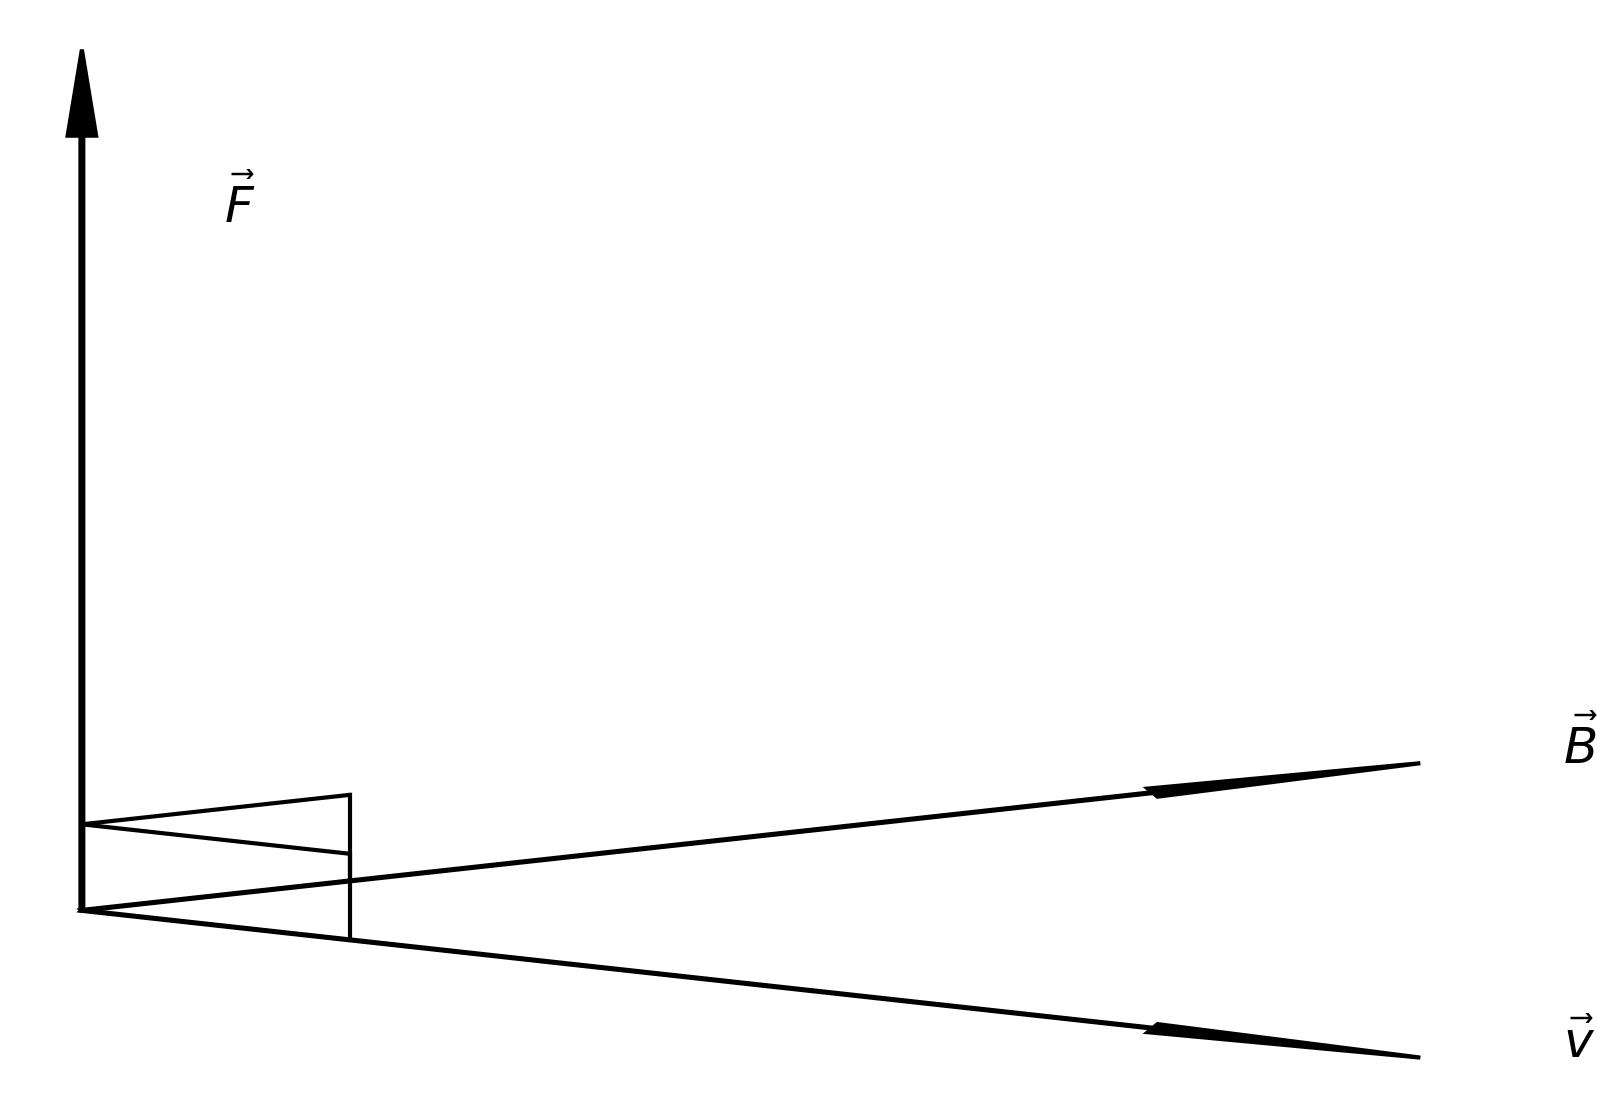
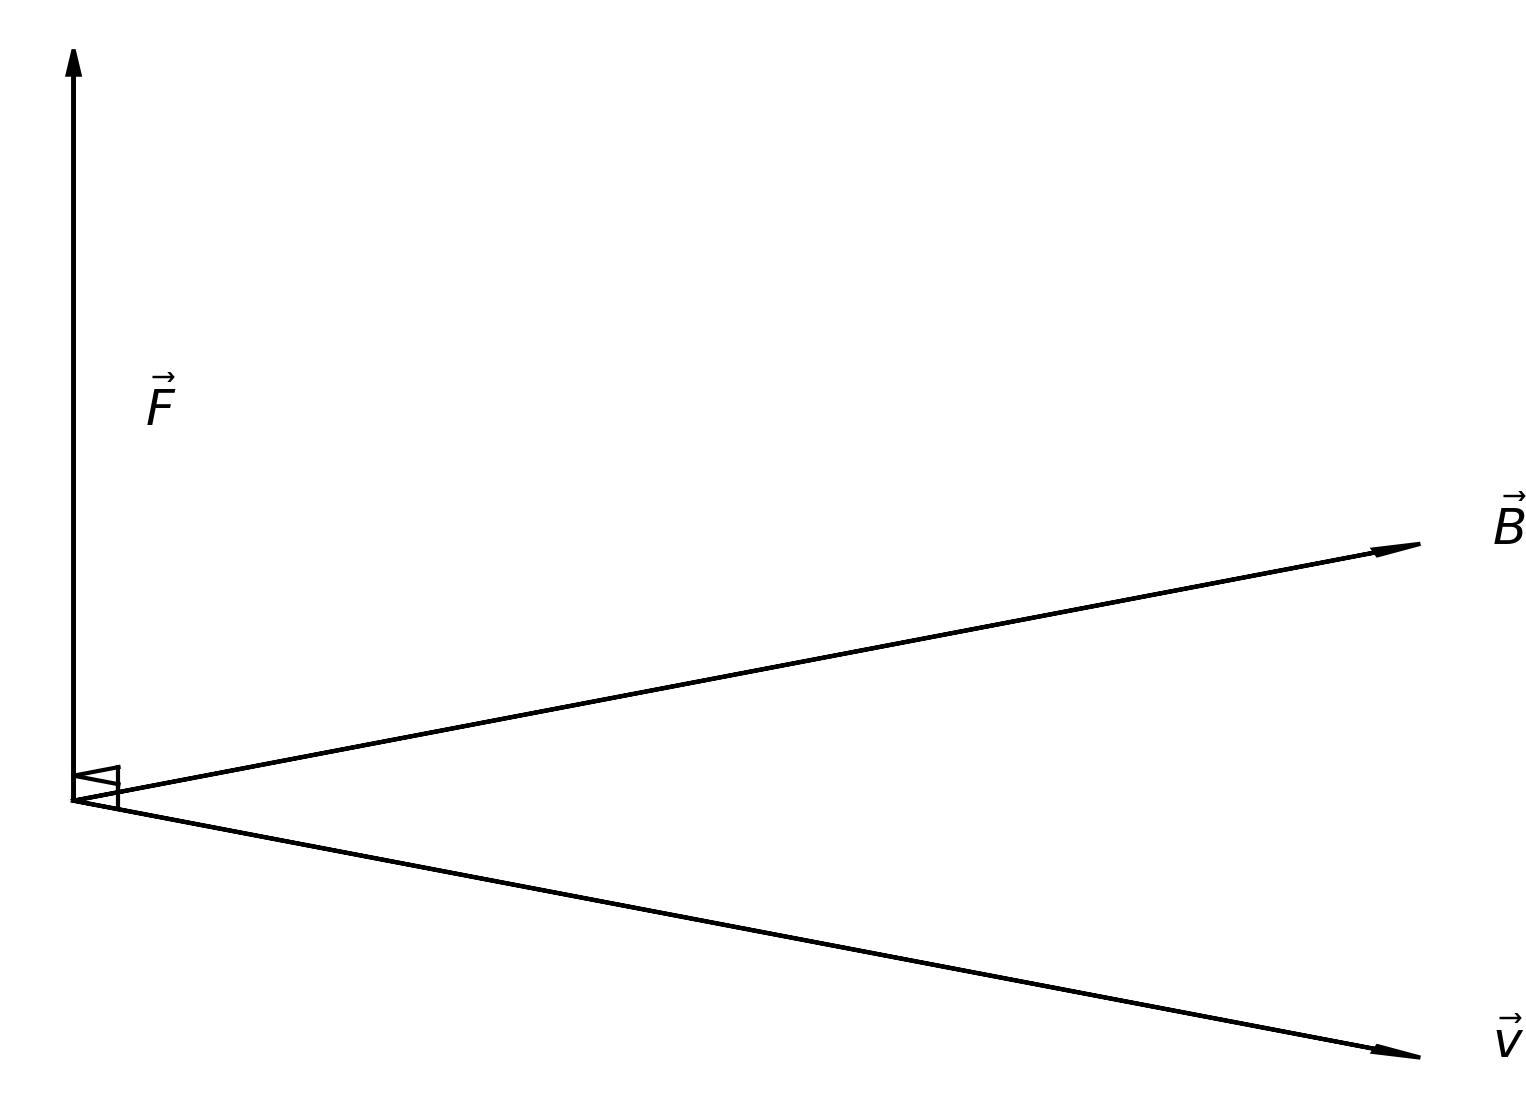
789できた

diff --git a/kakomon/2024-3-kisobuturi3-8.py b/kakomon/2024-3-kisobuturi3-8.py
@@ -1,0 +1,71 @@
+import matplotlib.pyplot as plt
+import matplotlib.patches as patches
+
+plt.rcParams['font.family'] = 'Yu Gothic'
+
+def create_vertical_rectangle(filename="8.jpg"):
+    fig, ax = plt.subplots()
+
+    # 縦に長い長方形（内部は塗りつぶさない）
+    rect = patches.Rectangle((0, 0), 1, 3, angle=0,
+                             linewidth=1, edgecolor='black', facecolor='none')
+    ax.add_patch(rect)
+
+    # 長方形の右下の頂点 (1, 0) から水平右方向に矢印を追加（長さ = 長方形の短辺＝1）
+    ax.arrow(1, 0, 1, 0, head_width=0.05, head_length=0.1,
+             fc='black', ec='black', length_includes_head=True)
+    # 長方形の右下から生えている矢印の先（(2,0)）の少し右側に「導体棒の速さ」のテキストを追加
+    ax.text(2.05, 0, "導体棒の速さ", fontsize=10, fontfamily='Yu Gothic', va='center', ha='left')
+    
+    # 長方形の中央に、長方形の長辺の半分（1.5）の長さの、まっすぐ上方向の矢印を追加
+    # 始点を (0.5, 1.3) に変更して、矢印が少し下側から生えるようにする
+    center_arrow_start = (0.5, 1.3)
+    arrow_length = 1.5
+    ax.arrow(center_arrow_start[0], center_arrow_start[1], 0, arrow_length,
+             head_width=0.05, head_length=0.1, fc='black', ec='black', length_includes_head=True)
+    
+    # center_arrow_start の位置に、正円（楕円ではない）の円を追加
+    small_circle = patches.Circle(center_arrow_start, 0.08, edgecolor='black',
+                                  facecolor='white', linewidth=1)
+    ax.add_patch(small_circle)
+    # 円の内部に "-e" とセリフ体で描画
+    ax.text(center_arrow_start[0], center_arrow_start[1], r'$-e$',
+            fontsize=10, fontfamily='serif', ha='center', va='center')
+    
+    # ここで、軸のアスペクトを equal に設定（これにより円が正円に表示されます）
+    ax.set_aspect('equal')
+
+    ax.text(0.6, 1.3, "ローレンツ力F\n(電子の流れる方向)", fontsize=10, fontfamily='Yu Gothic',
+            ha='left', va='center')
+    
+    # 長方形の左側に下向きの矢印とテキストを追加
+    # 矢印の始点は、長方形の左側中央 (0, 1.5) とする。矢印は下方向に 1.5 の長さ
+    ax.arrow(-0.1, 2, 0, -1.5, head_width=0.05, head_length=0.1,
+             fc='black', ec='black', length_includes_head=True)
+    # 矢印の左側に、「電流の向き」というテキストを配置
+    ax.text(-0.1, 1.5 - 0.75, "電流の向き", fontsize=10, fontfamily='Yu Gothic',
+            ha='right', va='center')
+    
+    # 新たに追加：長方形の左上の頂点の、更に左上に、外側の円を追加
+    # 長方形の左上の頂点は (0, 3) なので、そこから左上方向にオフセットする
+    outer_circle_center = (-0.2, 3.2)
+    outer_radius = 0.1
+    outer_circle = patches.Circle(outer_circle_center, outer_radius, edgecolor='black',
+                                  facecolor='none', linewidth=1)
+    ax.add_patch(outer_circle)
+    # 外側の円の内側に、黒塗りの内側の円を追加
+    inner_radius = 0.04
+    inner_circle = patches.Circle(outer_circle_center, inner_radius, edgecolor='black',
+                                  facecolor='black', linewidth=1)
+    ax.add_patch(inner_circle)
+    # 外側の円の左上に "B" のテキストを配置
+    ax.text(outer_circle_center[0] - outer_radius, outer_circle_center[1] + outer_radius,
+            "B", fontsize=10, fontfamily='serif', ha='center', va='center')
+    
+    ax.axis('off')
+
+    plt.savefig(filename, dpi=300, bbox_inches='tight', pad_inches=0)
+    plt.close(fig)
+
+if __name__ == '__main__':
+    create_vertical_rectangle()

diff --git a/kakomon/2024-3-kisobuturi3-9.py b/kakomon/2024-3-kisobuturi3-9.py
@@ -1,0 +1,55 @@
+import matplotlib.pyplot as plt
+import numpy as np
+
+def create_Vt_coordinate_plot(filename="9.jpg"):
+    fig, ax = plt.subplots()
+
+    # t軸（横軸）：原点から右方向へ矢印（t<0は表示しない）
+    ax.arrow(0, 0, 13, 0, length_includes_head=True,
+             head_width=0.3, head_length=0.5, fc='black', ec='black')
+    # V軸（縦軸）：下から上方向へ矢印
+    ax.arrow(0, -6, 0, 12, length_includes_head=True,
+             head_width=0.3, head_length=0.5, fc='black', ec='black')
+
+    # t軸正方向に、t = 1～12 の位置に点線グリッドを描画
+    for t in range(1, 13):
+        ax.axvline(x=t, color='gray', linestyle=':', linewidth=0.5)
+
+    # V軸方向に、-5 < V < 5 の整数部分で水平グリッドを描画
+    for v in range(-5, 6):
+        ax.axhline(y=v, color='gray', linestyle=':', linewidth=0.5)
+
+    # sin(Θ+π) のグラフを追加
+    # ω = 2π/周期 = 2π/8 = π/4
+    omega = np.pi / 4
+    t_values = np.linspace(0, 14, 1000)  # t<0は含めない
+    # 振幅2、 sin(ωt + π)
+    y_values = 2 * np.sin(omega * t_values + np.pi)
+    ax.plot(t_values, y_values, color='red', linewidth=1)
+
+    # t軸上（下部）に、原点から 4マスごとにラベルを配置（t軸に近い位置：y = -0.3)
+    ax.text(4, -0.3, r'$\frac{\pi}{\omega}$', fontsize=10, ha='center', va='top', fontfamily='serif')
+    ax.text(8, -0.3, r'$\frac{2\pi}{\omega}$', fontsize=10, ha='center', va='top', fontfamily='serif')
+    ax.text(12, -0.3, r'$\frac{3\pi}{\omega}$', fontsize=10, ha='center', va='top', fontfamily='serif')
+
+    # V軸の y = 2 と y = -2 に、それぞれ V₀, -V₀ と配置
+    ax.text(-0.3, 2, r'$V_0$', fontsize=10, ha='right', va='center', fontfamily='serif')
+    ax.text(-0.3, -2, r'$-V_0$', fontsize=10, ha='right', va='center', fontfamily='serif')
+
+    # 表示範囲の設定
+    ax.set_xlim(0, 14)
+    ax.set_ylim(-7, 7)
+
+    # 軸など不要なものは非表示
+    ax.axis('off')
+
+    # 軸ラベルの配置
+    ax.text(13, -0.8, "t [s]", fontsize=12, ha='right', va='top', fontfamily='serif')
+    ax.text(0.4, 7, "V [V]", fontsize=12, ha='left', va='bottom', fontfamily='serif')
+    ax.text(-0.1, -0.5, "O", fontsize=12, ha='right', va='top', fontfamily='serif')
+
+    plt.savefig(filename, dpi=300, bbox_inches='tight', pad_inches=0)
+    plt.close(fig)
+
+if __name__ == '__main__':
+    create_Vt_coordinate_plot()

diff --git a/kakomon/2024-3-kisobuturi3-7.py b/kakomon/2024-3-kisobuturi3-7.py
@@ -5,28 +5,28 @@ def create_F_vector_plot(filename="7.jpg"):
     fig, ax = plt.subplots()
 
     # ベクトル F : 原点から上方向へ（長さ 3）
-    ax.arrow(0, 0, 0, 1, head_width=0.01, head_length=0.1,
+    ax.arrow(0, 0, 0, 3, head_width=0.025, head_length=0.1,
              fc='black', ec='black', length_includes_head=True)
-    ax.text(0.05, 0.8, r'$\vec{F}$', fontsize=12, fontfamily='serif')
+    ax.text(0.15, 1.5, r'$\vec{F}$', fontsize=12, fontfamily='serif')
 
     # ベクトル B : 同じ原点から、水平状態から +20°回転した方向（長さ 3）
     angle_B = math.radians(20)
-    length = 0.5
+    length = 3
     bx = length * math.cos(angle_B)
     by = length * math.sin(angle_B)
-    ax.arrow(0, 0, bx, by, head_width=0.01, head_length=0.1,
+    ax.arrow(0, 0, bx, by, head_width=0.025, head_length=0.1,
              fc='black', ec='black', length_includes_head=True)
     # ベクトル B のラベルを、矢印の先端から少し右側に配置
-    ax.text(bx + 0.05, by, r'$\vec{B}$', fontsize=12, fontfamily='serif')
+    ax.text(bx + 0.15, by, r'$\vec{B}$', fontsize=12, fontfamily='serif')
 
     # ベクトル v : 同じ原点から、水平状態から -20°回転した方向（長さ 3）
     angle_v = math.radians(-20)
     bx_v = length * math.cos(angle_v)
     by_v = length * math.sin(angle_v)
-    ax.arrow(0, 0, bx_v, by_v, head_width=0.01, head_length=0.1,
+    ax.arrow(0, 0, bx_v, by_v, head_width=0.025, head_length=0.1,
              fc='black', ec='black', length_includes_head=True)
     # ベクトル v のラベルを、矢印の先端から少し右側に配置
-    ax.text(bx_v + 0.05, by_v, r'$\vec{v}$', fontsize=12, fontfamily='serif')
+    ax.text(bx_v + 0.15, by_v, r'$\vec{v}$', fontsize=12, fontfamily='serif')
     
     # ----- 以下、直角マークの挿入 -----
     seg = 0.1  # 直角マークの各線分の長さ
